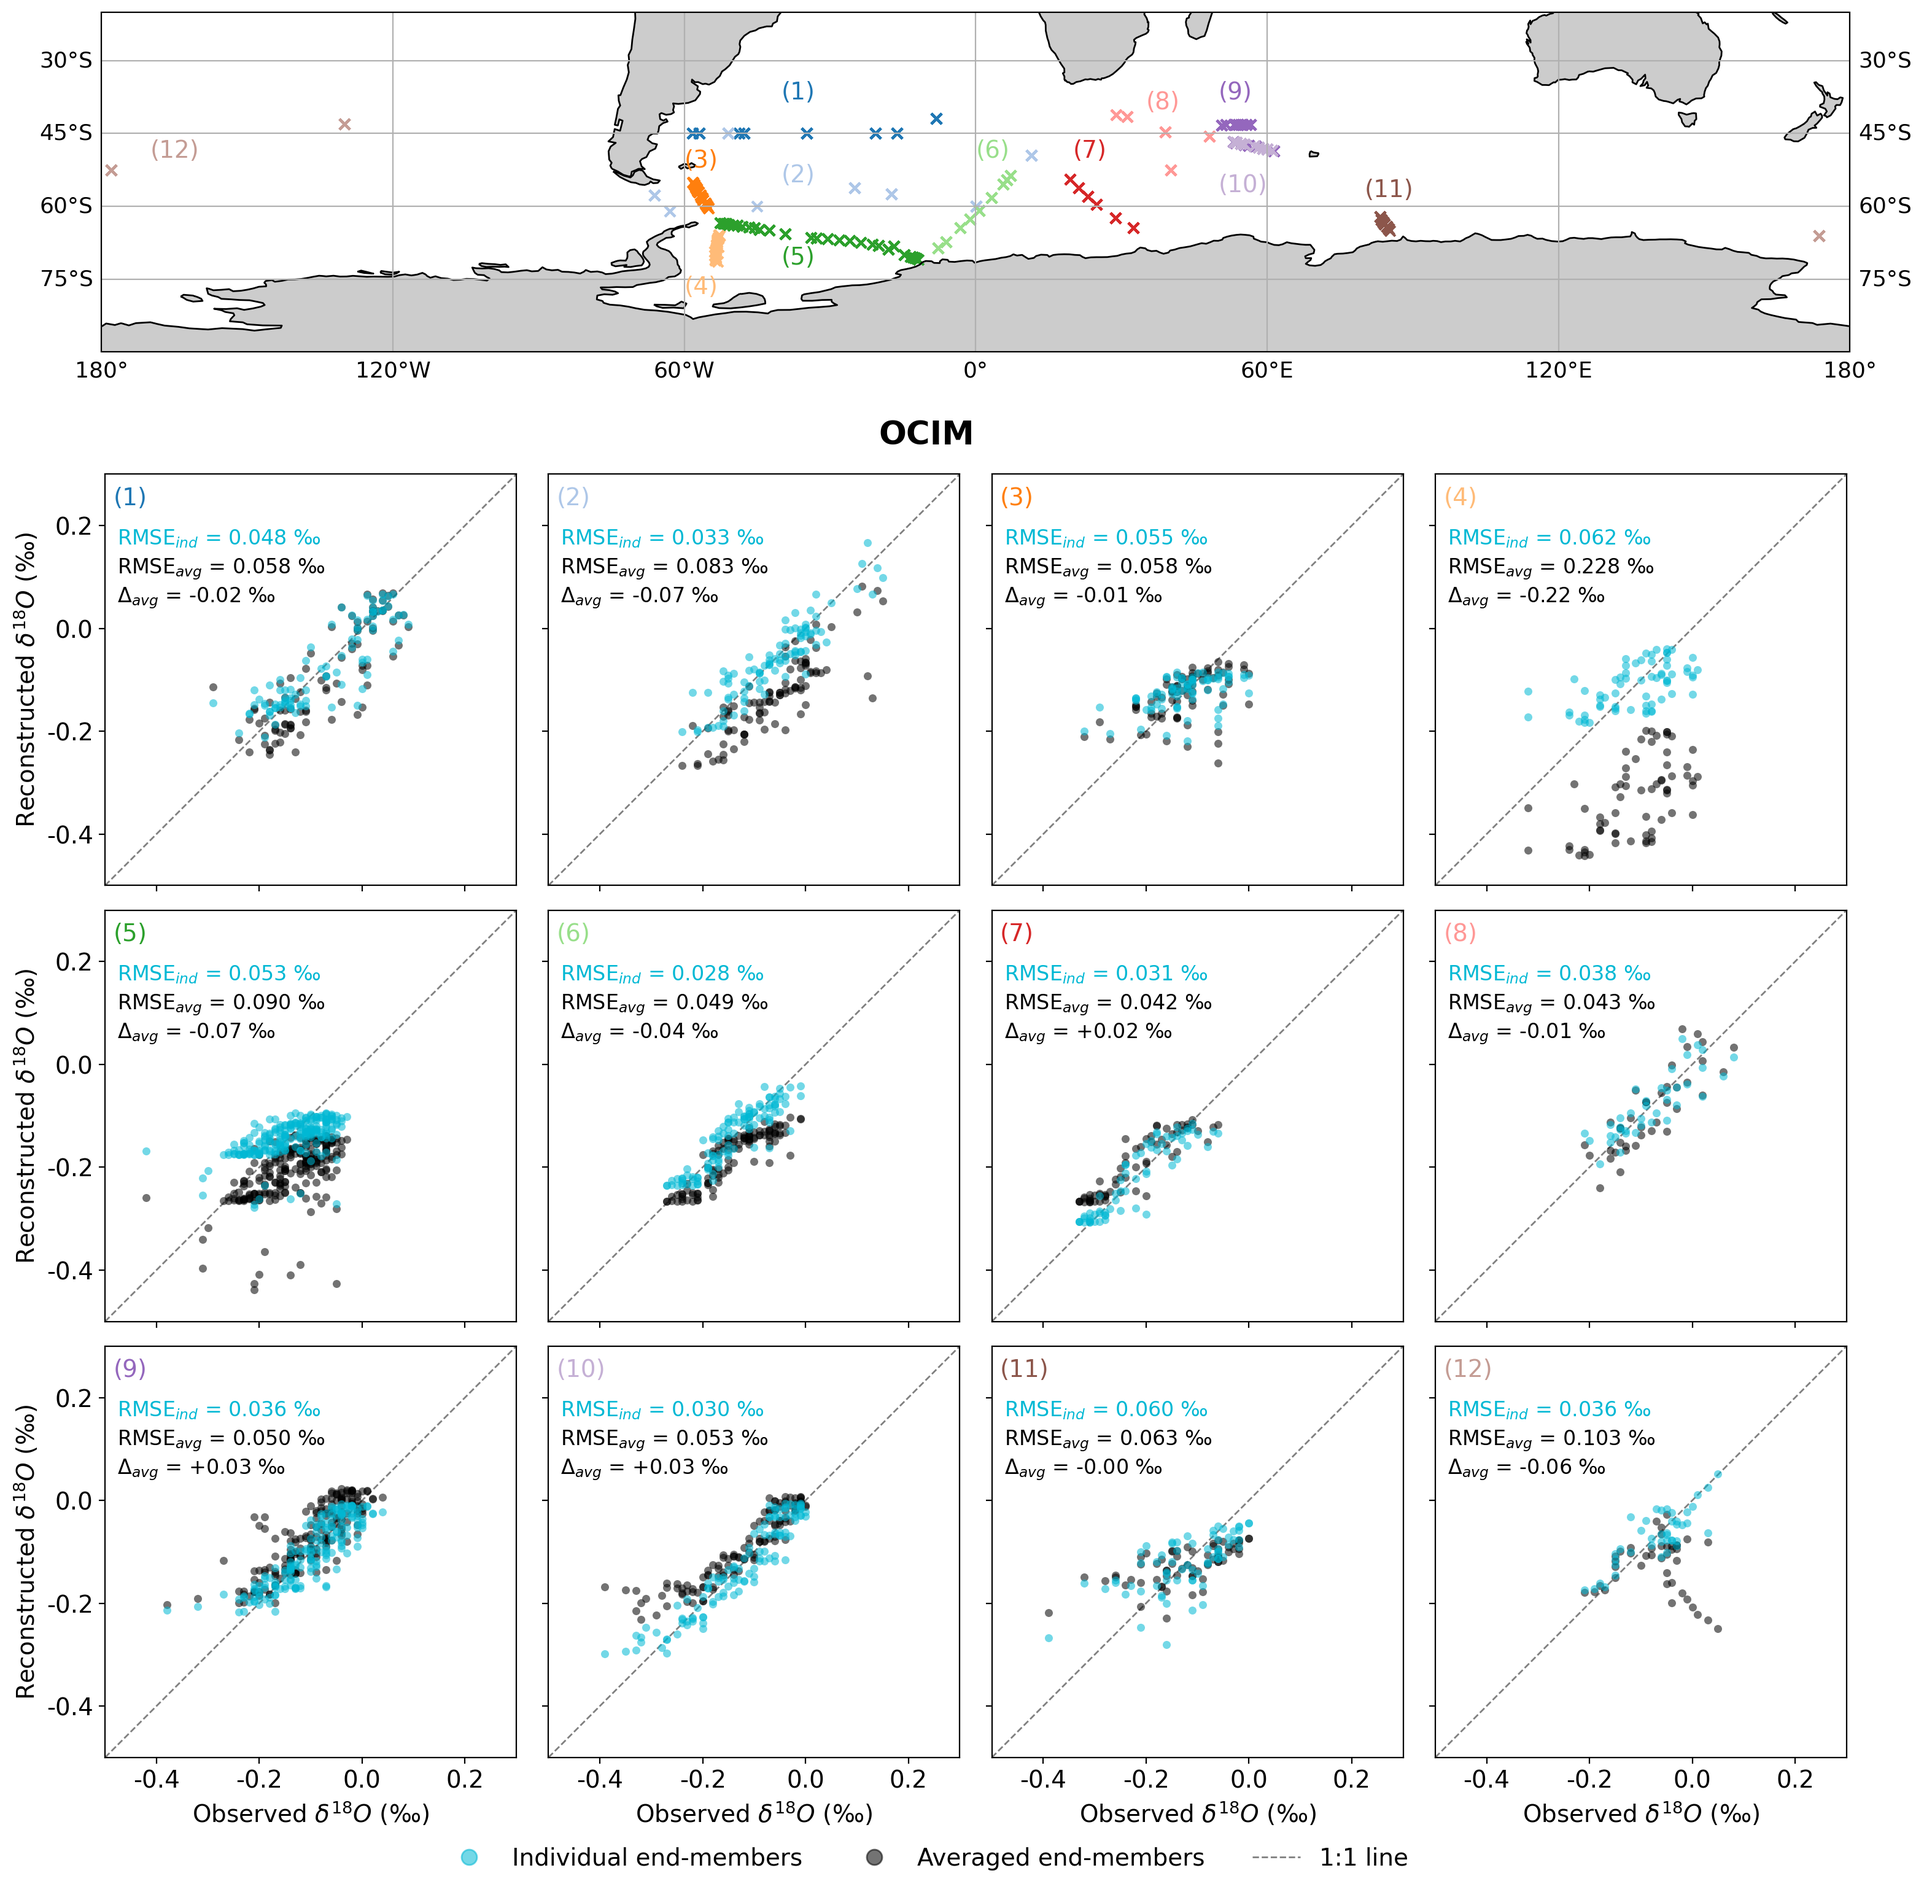
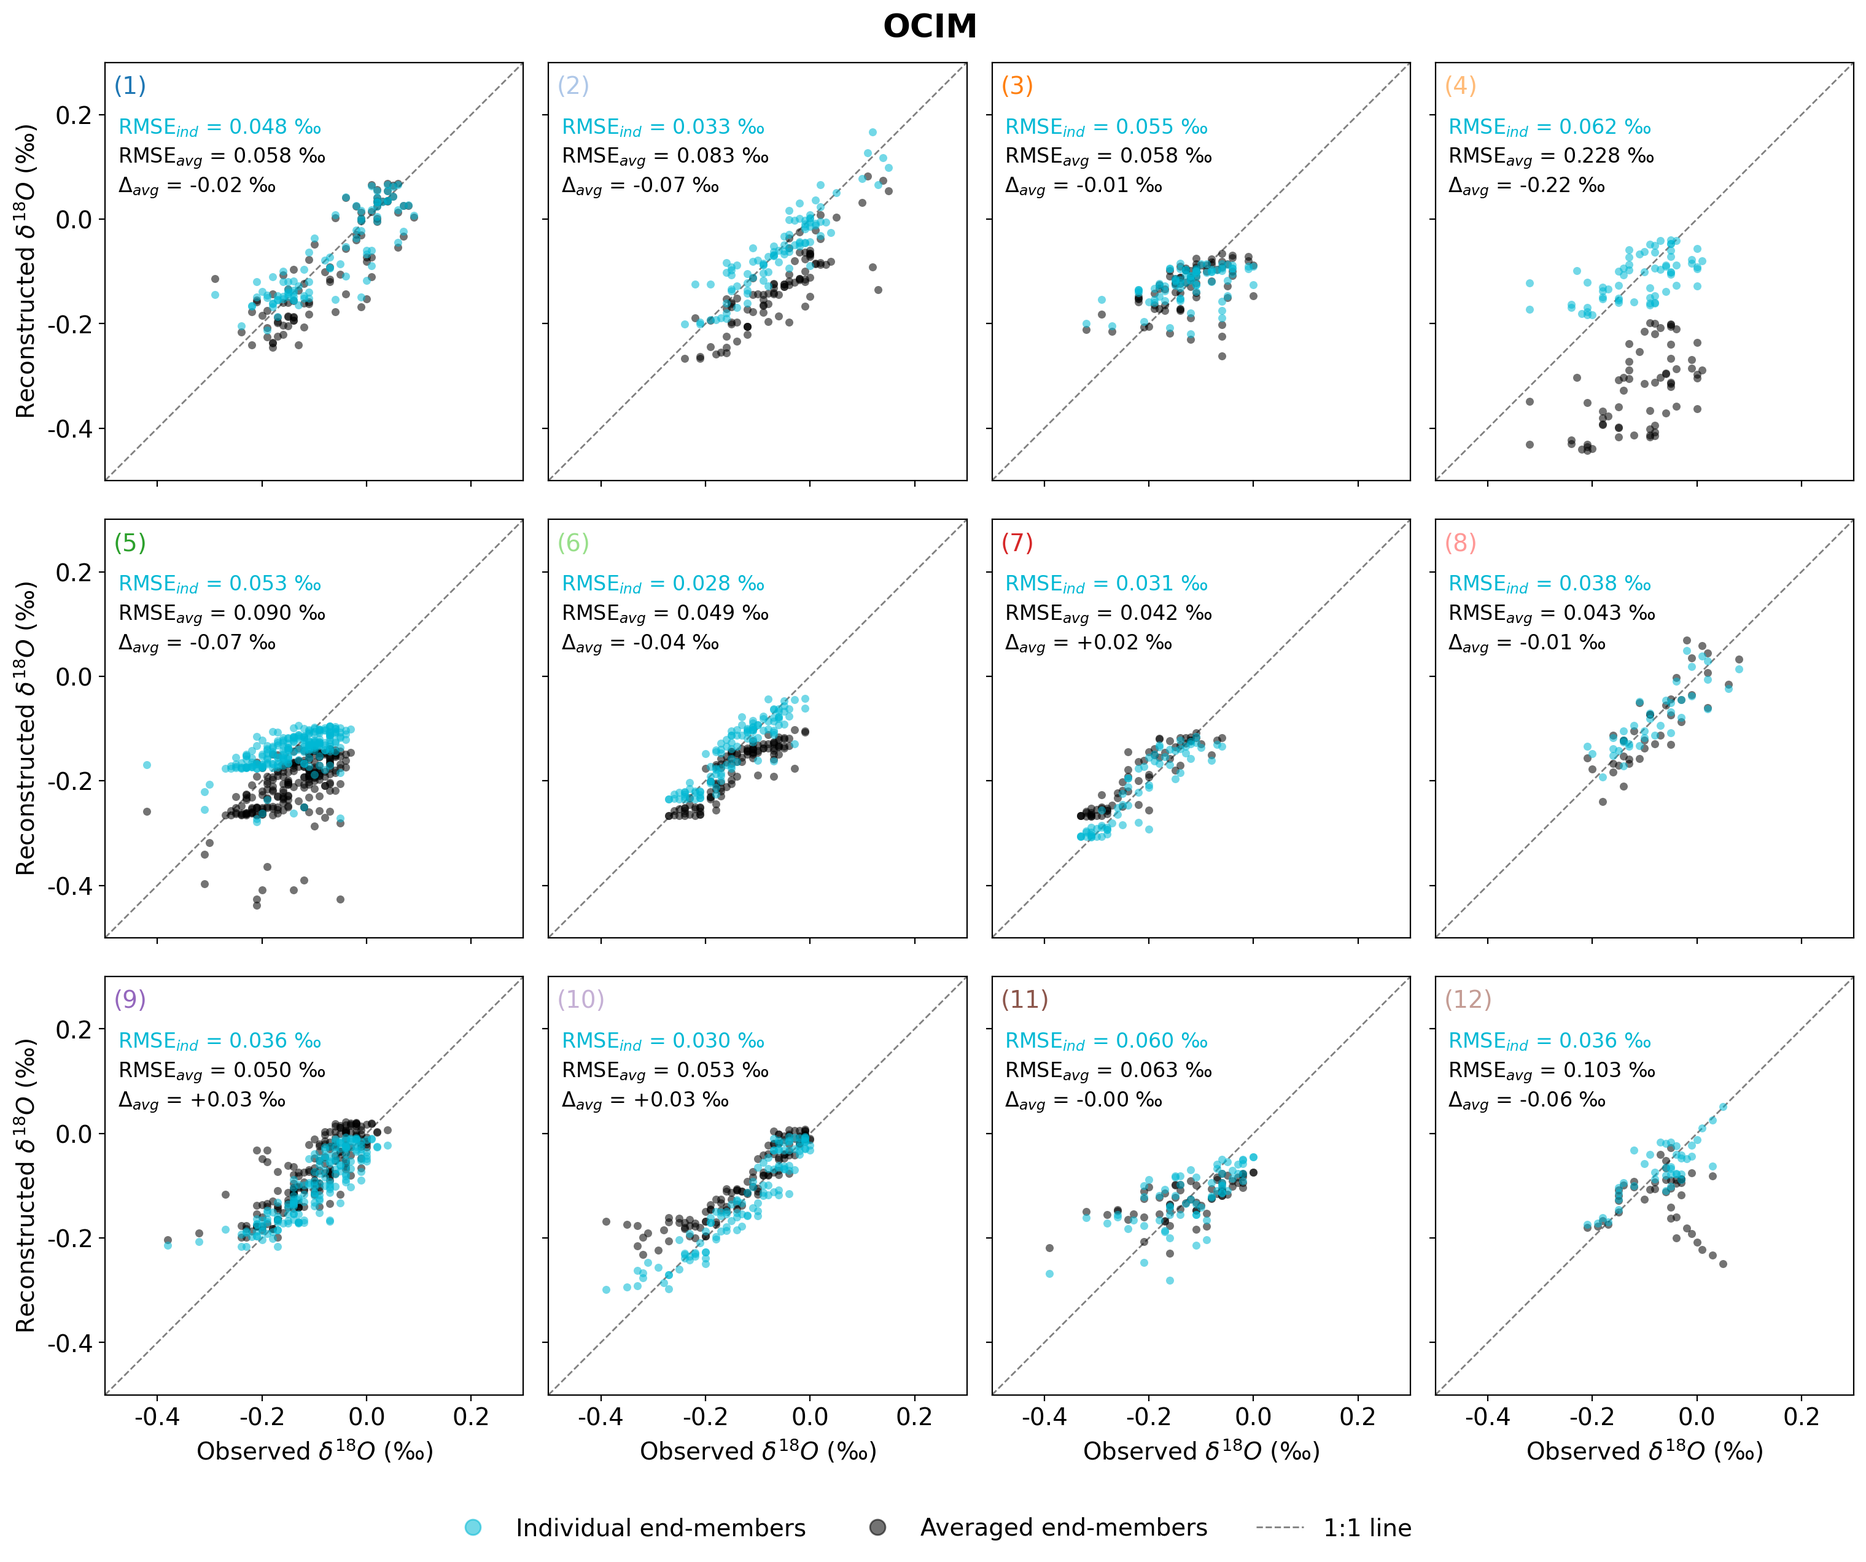
Figure 6 and crossplots: remove the maps
The figures are about the reconstructions only, so the station maps above the
panels are dropped; the model name is centred above the panels.

diff --git a/analysis/review/fig6_profiles_reconstructions.py b/analysis/review/fig6_profiles_reconstructions.py
@@ -11,8 +11,6 @@ all as small dots (--style dots). With --style bands, each series is instead
 averaged in neutral-density bins (0.1 kg m-3 above 27.8, 0.05 kg m-3 below):
 a line for the bin mean and a band for +-1 sigma of the bottles in the bin, the
 same measure of spread for the observations and both reconstructions.
-The map above keeps the dataset colours as the key that
-links each panel to its location (R1.5), with the stations as crosses.
 
 The end-members are re-optimised exactly as in notebooks/optimization_fractions.ipynb
 (cells 26 and 40-44).
@@ -28,8 +26,6 @@ import sys
 import numpy as np
 import matplotlib.pyplot as plt
 from matplotlib.lines import Line2D
-import cartopy.crs as ccrs
-import cartopy.feature as cfeature
 
 ROOT = os.path.dirname(os.path.dirname(os.path.dirname(os.path.abspath(__file__))))
 sys.path.insert(0, os.path.join(ROOT, 'scripts'))
@@ -86,30 +82,14 @@ GAMMA_MID = 0.5 * (GAMMA_EDGES[1:] + GAMMA_EDGES[:-1])
 
 
 def plot(datasets, model, out, style='dots'):
-    fig = plt.figure(figsize=(16, 20))
-    gs = fig.add_gridspec(4, 4, wspace=0.04, hspace=0.1)
+    fig = plt.figure(figsize=(16, 15))
+    gs = fig.add_gridspec(3, 4, wspace=0.04, hspace=0.1)
     couleurs = plt.cm.tab20(range(12))
-
-    # --- map: colour key of the datasets -------------------------------------
-    ax = fig.add_subplot(gs[0, :], projection=ccrs.PlateCarree())
-    ax.coastlines(resolution='110m')
-    ax.add_feature(cfeature.LAND, facecolor='0.8', edgecolor='none', zorder=0)
-    gl = ax.gridlines(draw_labels={'bottom': 'x', 'right': 'y', 'left': 'y'},
-                      ylocs=[-90 + 15 * i for i in range(5)])
-    gl.xlabel_style = {'size': FONT - 1}
-    gl.ylabel_style = {'size': FONT - 1}
-    ax.set_ylim(-90, -20)
-    ax.set_xlim(-180, 180)
-    for i in range(12):
-        ax.scatter(datasets[i]['Longitude'], datasets[i]['Latitude'], color=couleurs[i],
-                   marker='x', transform=ccrs.PlateCarree())
-        ax.text(uf.coords_dataset[i][0], uf.coords_dataset[i][1], f'({i + 1})',
-                fontsize=FONT, color=couleurs[i])
 
     # --- profiles --------------------------------------------------------------
     for i in range(12):
         df = datasets[i]
-        i_row, i_col = i // 4 + 1, i % 4
+        i_row, i_col = i // 4, i % 4
         xlabels, ylabels = uf.get_xylabels(3, 4, i)
         ax = fig.add_subplot(gs[i_row, i_col])
 
@@ -158,7 +138,7 @@ def plot(datasets, model, out, style='dots'):
         if xlabels:
             ax.set_xticklabels(['', '-0.4', '', '0.0', '', '0.4'], fontsize=FONT)
         if i == 0:
-            # model name centred in the gap between the map and the panels
+            # model name centred above the panels
             fig.text(0.5, ax.get_position().y1 + 0.012, model, ha='center', va='bottom',
                      fontsize=FONT + 5, fontweight='bold')
         if i == 11:
@@ -196,32 +176,15 @@ def plot_crossplot(datasets, model, out):
     """
     Observed against reconstructed delta-18O, one panel per dataset, with both
     reconstructions (individual end-members in cyan, averaged in magenta) and the
-    1:1 line. Same map, colours and dots as the profile figure.
+    1:1 line. Same colours and dots as the profile figure.
     """
     # The panels are square (equal axes), so the figure is sized for square grid
     # cells: 4 panels of width w across 0.89 x 16 in with 0.06 w gaps gives
-    # w ~ 3.4 in and 3 rows ~ 10.4 in; the map (360 x 70 deg) is ~ 2.8 in tall.
-    # Only the map-to-panels gap is widened, for the longitude labels and model name.
-    fig = plt.figure(figsize=(16, 15.8))
-    outer = fig.add_gridspec(2, 1, height_ratios=[2.77, 10.43], hspace=0.15,
-                             left=0.08, right=0.97, top=0.98, bottom=0.08)
-    gs = outer[1].subgridspec(3, 4, wspace=0.06, hspace=0.06)
+    # w ~ 3.4 in and 3 rows ~ 10.4 in, plus room above for the model name.
+    fig = plt.figure(figsize=(16, 12.6))
+    gs = fig.add_gridspec(3, 4, wspace=0.06, hspace=0.06,
+                          left=0.08, right=0.97, top=0.95, bottom=0.08)
     couleurs = plt.cm.tab20(range(12))
-
-    ax = fig.add_subplot(outer[0], projection=ccrs.PlateCarree())
-    ax.coastlines(resolution='110m')
-    ax.add_feature(cfeature.LAND, facecolor='0.8', edgecolor='none', zorder=0)
-    gl = ax.gridlines(draw_labels={'bottom': 'x', 'right': 'y', 'left': 'y'},
-                      ylocs=[-90 + 15 * i for i in range(5)])
-    gl.xlabel_style = {'size': FONT - 1}
-    gl.ylabel_style = {'size': FONT - 1}
-    ax.set_ylim(-90, -20)
-    ax.set_xlim(-180, 180)
-    for i in range(12):
-        ax.scatter(datasets[i]['Longitude'], datasets[i]['Latitude'], color=couleurs[i],
-                   marker='x', transform=ccrs.PlateCarree())
-        ax.text(uf.coords_dataset[i][0], uf.coords_dataset[i][1], f'({i + 1})',
-                fontsize=FONT, color=couleurs[i])
 
     # common square axis range covering every bottle, rounded out to 0.1 permil
     cols = ['d18O', 'd18O_rcst_' + model, 'd18O_rcst_mean_' + model]
@@ -266,7 +229,7 @@ def plot_crossplot(datasets, model, out):
         if ylabels:
             ax.set_ylabel('Reconstructed ' + pl.D18O_LABEL, fontsize=FONT)
         if i == 0:
-            # model name centred in the gap between the map and the panels
+            # model name centred above the panels
             fig.text(0.5, ax.get_position().y1 + 0.012, model, ha='center', va='bottom',
                      fontsize=FONT + 5, fontweight='bold')
         if i == 11:
@@ -277,7 +240,7 @@ def plot_crossplot(datasets, model, out):
                             (XAVG_COLOR, 'Averaged end-members')]]
     handles.append(Line2D([], [], color='0.5', ls='--', lw=1, label='1:1 line'))
     fig.legend(handles=handles, fontsize=FONT, ncol=3, loc='upper center',
-               bbox_to_anchor=(0.5, bottom - 0.035), frameon=False)
+               bbox_to_anchor=(0.5, bottom - 0.065), frameon=False)
 
     fig.savefig(out, bbox_inches='tight', dpi=200)
     print('saved', out, 'axis range', lims)
